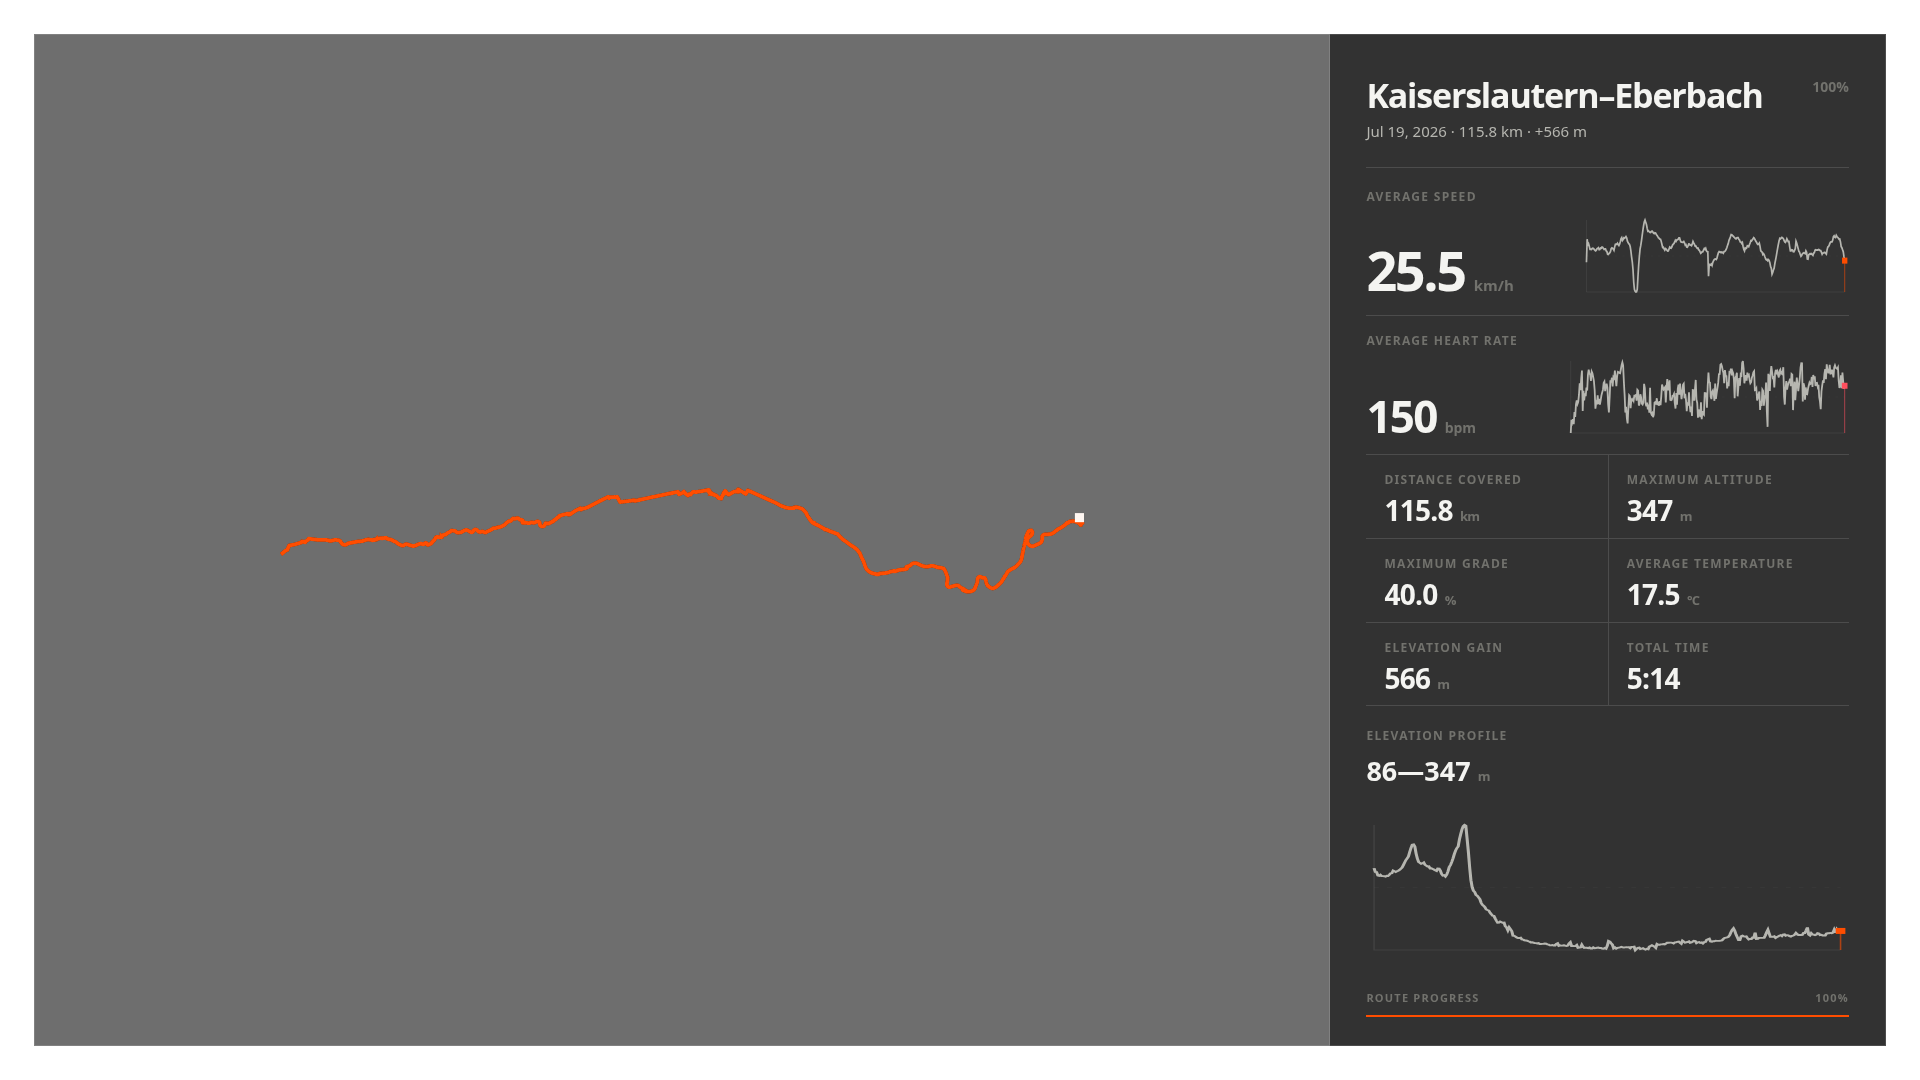
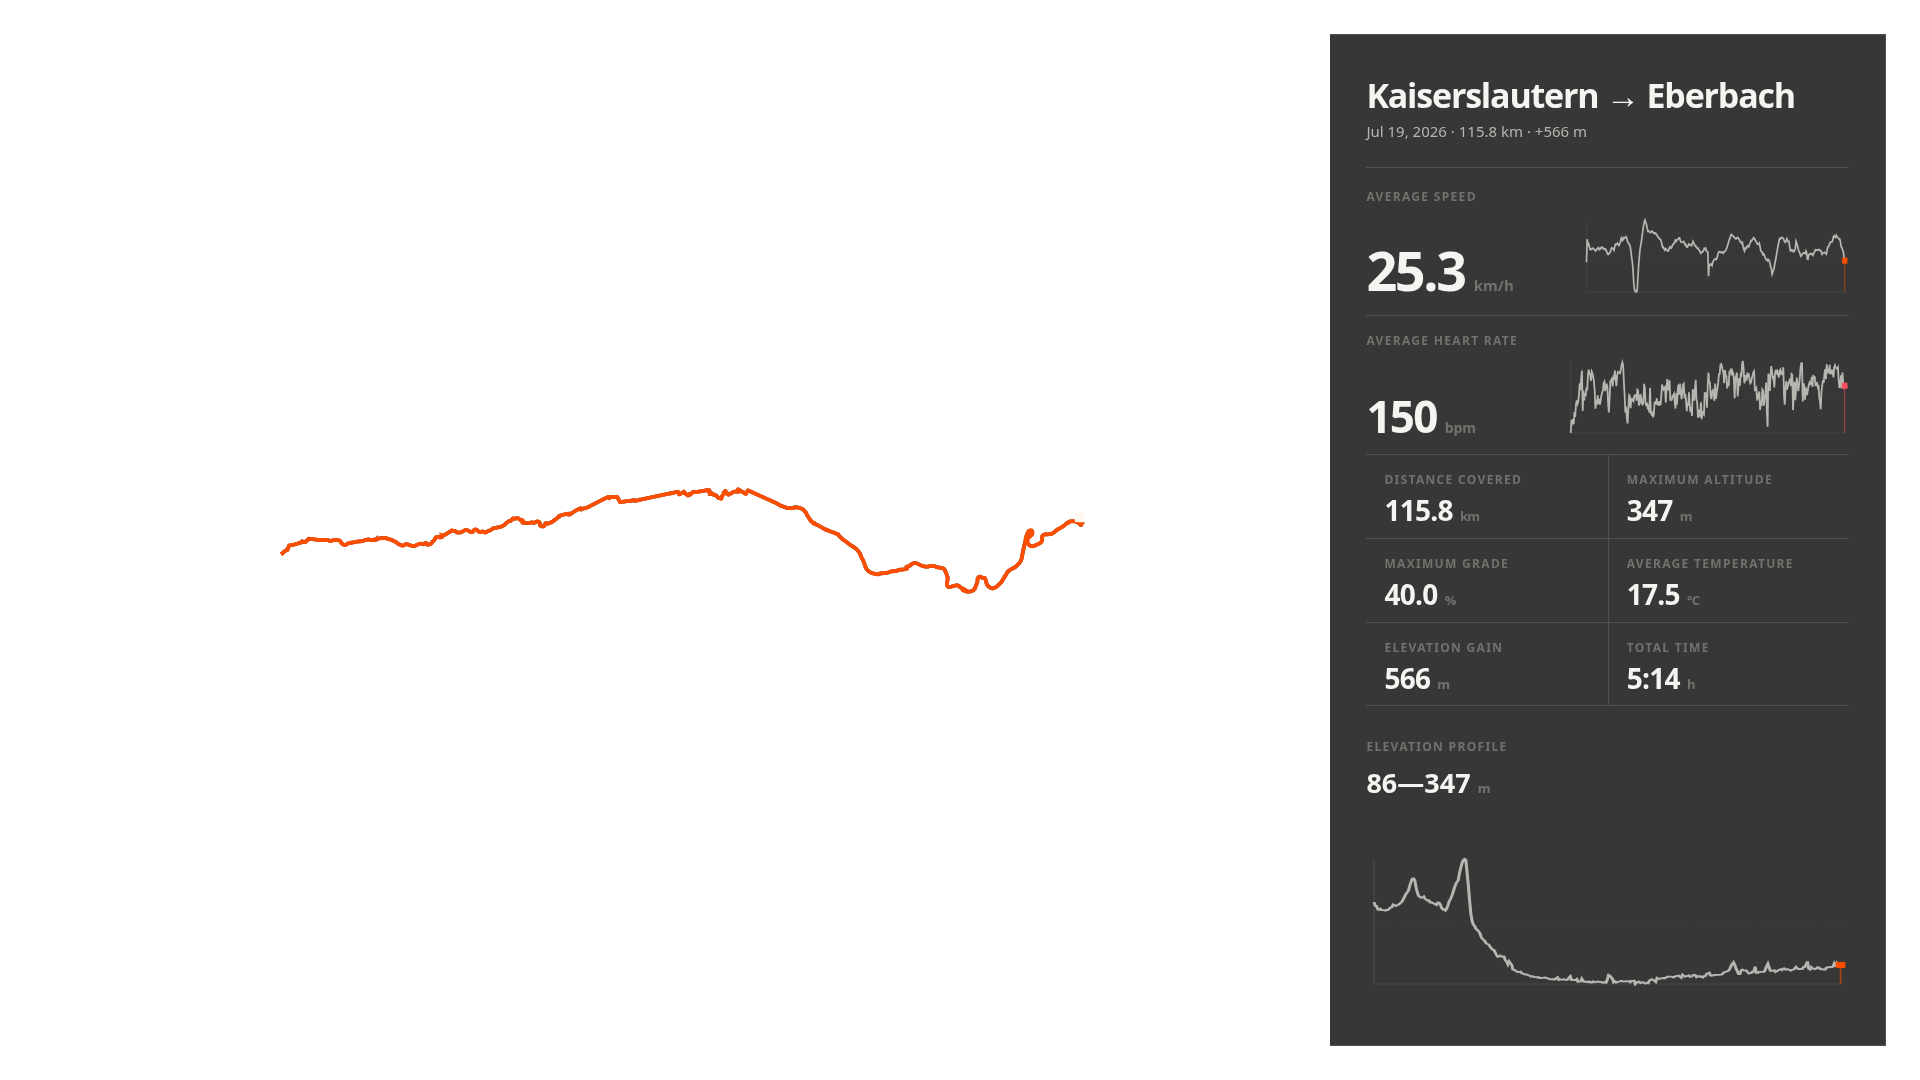
refine video previews and progress display

diff --git a/renderer/src/components/TelemetryPanel.tsx b/renderer/src/components/TelemetryPanel.tsx
@@ -166,16 +166,14 @@ export const TelemetryPanel = ({spec, point, progress, theme, vertical}: Props) 
           height={vertical ? 210 : 135}
         />
       </div>
-      <div style={{paddingTop: 18}}>
-        {spec.show_progress_bar !== false ? (
-          <>
-            <div style={{display: 'flex', justifyContent: 'space-between', color: theme.textMuted, fontSize: 11, fontWeight: 700, letterSpacing: '0.11em', textTransform: 'uppercase', marginBottom: 10}}>
-              <span>{t('progress')}</span><span>{Math.round(progress * 100)}%</span>
-            </div>
-            <div style={{height: 2, background: theme.border}}><div style={{height: '100%', width: `${progress * 100}%`, background: theme.route}} /></div>
-          </>
-        ) : null}
-      </div>
+      {spec.show_progress_bar === true ? (
+        <div style={{paddingTop: 18}}>
+          <div style={{display: 'flex', justifyContent: 'space-between', color: theme.textMuted, fontSize: 11, fontWeight: 700, letterSpacing: '0.11em', textTransform: 'uppercase', marginBottom: 10}}>
+            <span>{t('progress')}</span><span>{Math.round(progress * 100)}%</span>
+          </div>
+          <div style={{height: 2, background: theme.border}}><div style={{height: '100%', width: `${progress * 100}%`, background: theme.route}} /></div>
+        </div>
+      ) : null}
     </div>
   );
 };

diff --git a/renderer/src/compositions/ActivityClean.tsx b/renderer/src/compositions/ActivityClean.tsx
@@ -55,7 +55,7 @@ export const ActivityClean = (props: ActivityRenderSpec) => {
           </div>
         </div>
       </div>
-      {props.show_progress_bar !== false ? (
+      {props.show_progress_bar === true ? (
         <div style={{position: 'absolute', left: vertical ? 56 : 64, right: vertical ? 56 : 64, bottom: vertical ? 52 : 44}}>
           <div style={{display: 'flex', justifyContent: 'space-between', color: theme.textMuted, fontSize: 11, fontWeight: 700, letterSpacing: '0.11em', textTransform: 'uppercase', marginBottom: 10}}>
             <span>{t('progress')}</span><span>{Math.round(progress * 100)}%</span>

diff --git a/renderer/src/compositions/ActivityOverlay.tsx b/renderer/src/compositions/ActivityOverlay.tsx
@@ -55,7 +55,7 @@ export const ActivityOverlay = (props: ActivityRenderSpec) => {
             borderRight: `1px solid ${theme.border}`,
             borderBottom: `1px solid ${theme.border}`,
             borderTop: vertical ? 'none' : `1px solid ${theme.border}`,
-            background: 'rgba(5, 5, 5, 0.30)',
+            background: 'rgba(5, 5, 5, 0.80)',
           }}
         >
           <TelemetryPanel spec={props} point={point} progress={progress} theme={theme} vertical={vertical} />

diff --git a/renderer/src/defaults.ts b/renderer/src/defaults.ts
@@ -6,6 +6,7 @@ export const defaultActivitySpec: ActivityRenderSpec = {
   outputMode: 'animated',
   locale: 'en',
   theme: 'midnight',
+  show_progress_bar: false,
   profile: {width: 1920, height: 1080, fps: 30, duration_seconds: 5, hold_seconds: 1},
   activity: {id: 'preview', title: 'Morning Ride', date: '2024-08-23T08:00:00Z'},
   background: null,

diff --git a/renderer/src/schema.ts b/renderer/src/schema.ts
@@ -51,7 +51,7 @@ export const activityRenderSpecSchema = z.object({
     speedWindowSeconds: z.number().positive(),
   }),
   points: z.array(telemetryPointSchema).min(2),
-  show_progress_bar: z.boolean().optional(),
+  show_progress_bar: z.boolean().default(false),
 });
 
 export type TelemetryPoint = z.infer<typeof telemetryPointSchema>;

diff --git a/src/ride_visuals/video/collection.py b/src/ride_visuals/video/collection.py
@@ -409,7 +409,7 @@ class CollectionVideoRenderer:
         """Pick the map corner with least route occupancy and greatest clearance."""
         padding = 28 * scale
         legend_w = min((760 if wide else 480) * scale, layout.map_rect.w - 2 * padding)
-        legend_h = (74 if wide else 94) * scale
+        legend_h = (62 if wide else 82) * scale
         candidates = [
             ("top_left", layout.map_rect.x0 + padding, layout.map_rect.y0 + padding),
             ("top_right", layout.map_rect.x1 - padding - legend_w, layout.map_rect.y0 + padding),
@@ -551,7 +551,8 @@ class CollectionVideoRenderer:
                           keyframes_dir: Optional[Path] = None,
                           ssaa_scale: int = 2,
                           basemap: str = "plain",
-                          map_detail: str = "standard") -> Tuple[Path, List[Path]]:
+                          map_detail: str = "standard",
+                          show_progress_bar: bool = False) -> Tuple[Path, List[Path]]:
         output_mp4_path = Path(output_mp4_path)
         output_mp4_path.parent.mkdir(parents=True, exist_ok=True)
         if keyframes_dir:
@@ -968,10 +969,11 @@ class CollectionVideoRenderer:
                 )
                 ty = grid_top + 3 * card_h
 
-                DashboardPainter.draw_progress_bar(
-                    draw, tx, ty + 10 * ui, card_w, 10 * ui, pct=progress_pct, scale=ui,
-                )
-                chart_top = ty + 42 * ui
+                if show_progress_bar:
+                    DashboardPainter.draw_progress_bar(
+                        draw, tx, ty + 10 * ui, card_w, 10 * ui, pct=progress_pct, scale=ui,
+                    )
+                chart_top = ty + (42 if show_progress_bar else 16) * ui
                 f_chart_label = FontManager.get_font(12 * ui, bold=True)
                 f_chart_value = FontManager.get_font(27 * ui, bold=True)
                 if motion == "elapsed":
@@ -1041,8 +1043,11 @@ class CollectionVideoRenderer:
                         label=row[1][0], value=row[1][1], is_mobile=True, scale=ui,
                     )
                 ty = grid_top + 3 * card_h + 12 * ui
-                DashboardPainter.draw_progress_bar(draw, tx, ty, pw, 12 * ui, pct=progress_pct, scale=ui)
-                chart_top = ty + 28 * ui
+                if show_progress_bar:
+                    DashboardPainter.draw_progress_bar(
+                        draw, tx, ty, pw, 12 * ui, pct=progress_pct, scale=ui,
+                    )
+                chart_top = ty + (28 if show_progress_bar else 0) * ui
                 chart_h = max(70 * ui, tr.y1 - chart_top - 26 * ui)
                 if motion == "elapsed":
                     self._draw_finish_distribution(

diff --git a/src/ride_visuals/cli.py b/src/ride_visuals/cli.py
@@ -307,6 +307,7 @@ def cmd_video(args):
             ssaa_scale=1 if aspect == "4k" else 2,
             basemap=collection_basemap,
             map_detail=map_detail,
+            show_progress_bar=getattr(args, "show_progress_bar", False),
         )
         print(f"[Vídeo] Coleção gerada com sucesso em: {out_path}")
         if keyframes_dir:
@@ -403,7 +404,7 @@ def cmd_video(args):
             background_image=background_image,
             background_blur_px=float(getattr(args, "background_blur", 0.0)),
             background_dim=float(getattr(args, "background_dim", 0.35)),
-            show_progress_bar=not getattr(args, "no_progress_bar", False),
+            show_progress_bar=getattr(args, "show_progress_bar", False),
         )
         if activity_basemap != "plain":
             background_file = (
@@ -655,7 +656,13 @@ def main():
     p_vid.add_argument("--background-image", type=str, help="Imagem JPEG/PNG/WebP usada atrás da atividade (incompatível com --basemap)")
     p_vid.add_argument("--background-blur", type=float, default=0.0, help="Desfoque do fundo em pixels (0–100)")
     p_vid.add_argument("--background-dim", type=float, default=0.35, help="Escurecimento do fundo (0–1)")
-    p_vid.add_argument("--no-progress-bar", action="store_true", help="Hide the route progress bar at the bottom of activity videos")
+    p_vid.add_argument(
+        "--progress-bar",
+        action=argparse.BooleanOptionalAction,
+        dest="show_progress_bar",
+        default=False,
+        help="Show the optional progress percentage and bar in activity and collection videos",
+    )
     p_vid.add_argument("--overlay-format", choices=["png", "webm", "mov"], default="png", help="PNG estático, WebM alpha ou ProRes 4444 MOV")
     p_vid.add_argument("--config", type=str, help="Caminho para config/config.toml")
     add_selection_arguments(p_vid)

diff --git a/tests/test_video_presets.py b/tests/test_video_presets.py
@@ -5,7 +5,7 @@ from ride_visuals.video.presets import get_video_preset
 
 def test_activity_portrait_preset_is_partitioned_and_deterministic():
     preset = get_video_preset("activity", "9:16", preview=True)
-    assert (preset.canvas.width, preset.canvas.height) == (1080, 1920)
+    assert (preset.canvas.width, preset.canvas.height) == (540, 960)
     assert preset.canvas.layout == "9:16"
     assert preset.duration_seconds == 4.0
     assert preset.fps == 30
@@ -17,11 +17,21 @@ def test_clean_collection_uses_full_map_layout():
     assert preset.hold_seconds == 3.0
 
 
-def test_4k_preset_uses_landscape_partition_at_native_uhd():
+def test_4k_preview_uses_landscape_partition_at_half_resolution():
     preset = get_video_preset("collection", "4k", preview=True)
-    assert (preset.canvas.width, preset.canvas.height) == (3840, 2160)
+    assert (preset.canvas.width, preset.canvas.height) == (1920, 1080)
     assert preset.canvas.layout == "16:9"
     assert preset.duration_seconds + preset.hold_seconds <= 10.0
+
+
+def test_final_presets_keep_native_resolution():
+    landscape = get_video_preset("activity", "16:9")
+    portrait = get_video_preset("activity", "9:16")
+    uhd = get_video_preset("collection", "4k")
+
+    assert (landscape.canvas.width, landscape.canvas.height) == (1920, 1080)
+    assert (portrait.canvas.width, portrait.canvas.height) == (1080, 1920)
+    assert (uhd.canvas.width, uhd.canvas.height) == (3840, 2160)
 
 
 def test_progress_preview_stays_below_ten_seconds():

diff --git a/tests/test_render_spec.py b/tests/test_render_spec.py
@@ -45,10 +45,32 @@ def test_render_spec_is_versioned_and_json_safe(tmp_path):
     assert payload["activity"]["id"] == "42"
     assert payload["background"] is None
     assert payload["summary"]["speedWindowSeconds"] >= 30
-    assert payload["show_progress_bar"] is True
+    assert payload["show_progress_bar"] is False
     assert len(payload["points"]) == 3
     assert payload["points"][0]["powerWatts"] is None
     assert "cumulativeElevationGainM" in payload["points"][0]
+
+
+def test_render_spec_can_enable_progress_bar(tmp_path):
+    frame = pd.DataFrame(
+        {
+            "timestamp": pd.date_range("2024-08-23T08:00:00Z", periods=2, freq="1s"),
+            "lat": [10.0, 10.001],
+            "lon": [20.0, 20.001],
+            "distance_m": [0.0, 100.0],
+        }
+    )
+    parquet = tmp_path / "activity.parquet"
+    pq.write_table(pa.Table.from_pandas(frame), parquet)
+
+    spec = ActivityRenderSpec.from_parquet(
+        parquet,
+        activity_id=42,
+        title="Morning Ride",
+        show_progress_bar=True,
+    )
+
+    assert spec.show_progress_bar is True
 
 
 

diff --git a/src/ride_visuals/video/presets.py b/src/ride_visuals/video/presets.py
@@ -27,6 +27,12 @@ CANVASES = {
     "4k": CanvasPreset("4k", 3840, 2160, "16:9"),
 }
 
+PREVIEW_CANVASES = {
+    "16:9": CanvasPreset("16:9", 960, 540, "16:9"),
+    "9:16": CanvasPreset("9:16", 540, 960, "9:16"),
+    "4k": CanvasPreset("4k", 1920, 1080, "16:9"),
+}
+
 _DURATIONS = {
     "activity": {"preview": (4.0, 1.0), "final": (13.0, 2.0)},
     "collection": {"preview": (4.0, 1.0), "final": (12.0, 3.0)},
@@ -39,7 +45,7 @@ _DURATIONS = {
 def get_video_preset(kind: str, aspect: str, *, preview: bool = False, clean: bool = False) -> VideoPreset:
     """Resolve a named output to deterministic dimensions and timing."""
     try:
-        canvas = CANVASES[aspect]
+        canvas = (PREVIEW_CANVASES if preview else CANVASES)[aspect]
     except KeyError as exc:
         raise ValueError(f"Unsupported aspect {aspect!r}. Choose one of: {', '.join(CANVASES)}") from exc
     try:

diff --git a/src/ride_visuals/video/spec.py b/src/ride_visuals/video/spec.py
@@ -146,7 +146,7 @@ class ActivityRenderSpec:
     summary: dict[str, float]
     points: list[dict[str, Any]]
     output_mode: str = "animated"
-    show_progress_bar: bool = True
+    show_progress_bar: bool = False
 
     @classmethod
     def from_parquet(
@@ -163,7 +163,7 @@ class ActivityRenderSpec:
         background_image: Path | None = None,
         background_blur_px: float = 0.0,
         background_dim: float = 0.35,
-        show_progress_bar: bool = True,
+        show_progress_bar: bool = False,
     ) -> "ActivityRenderSpec":
         effective_profile = profile or RenderProfile()
         source_frame = pq.read_table(parquet_path).to_pandas()

diff --git a/README.md b/README.md
@@ -56,7 +56,7 @@ transparent, in vertical or landscape.
 
 ```bash
 ride-visuals video telemetry <activity-id> --background-image photo.jpg \
-  --aspect 9:16 --title "" --no-progress-bar --config config/config.toml
+  --aspect 9:16 --title "" --config config/config.toml
 ```
 
 ## Shape the collection
